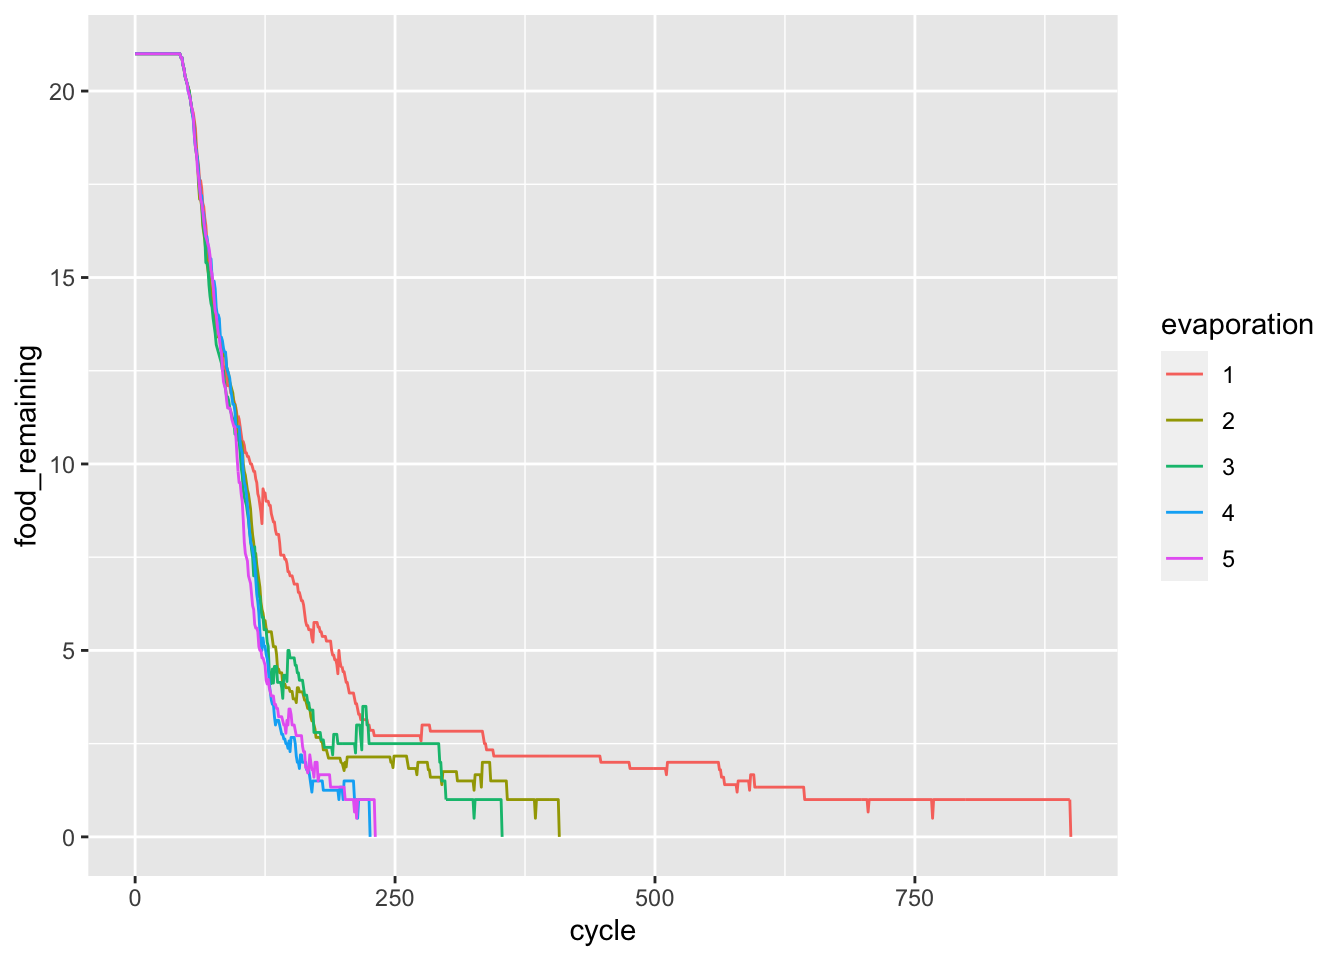
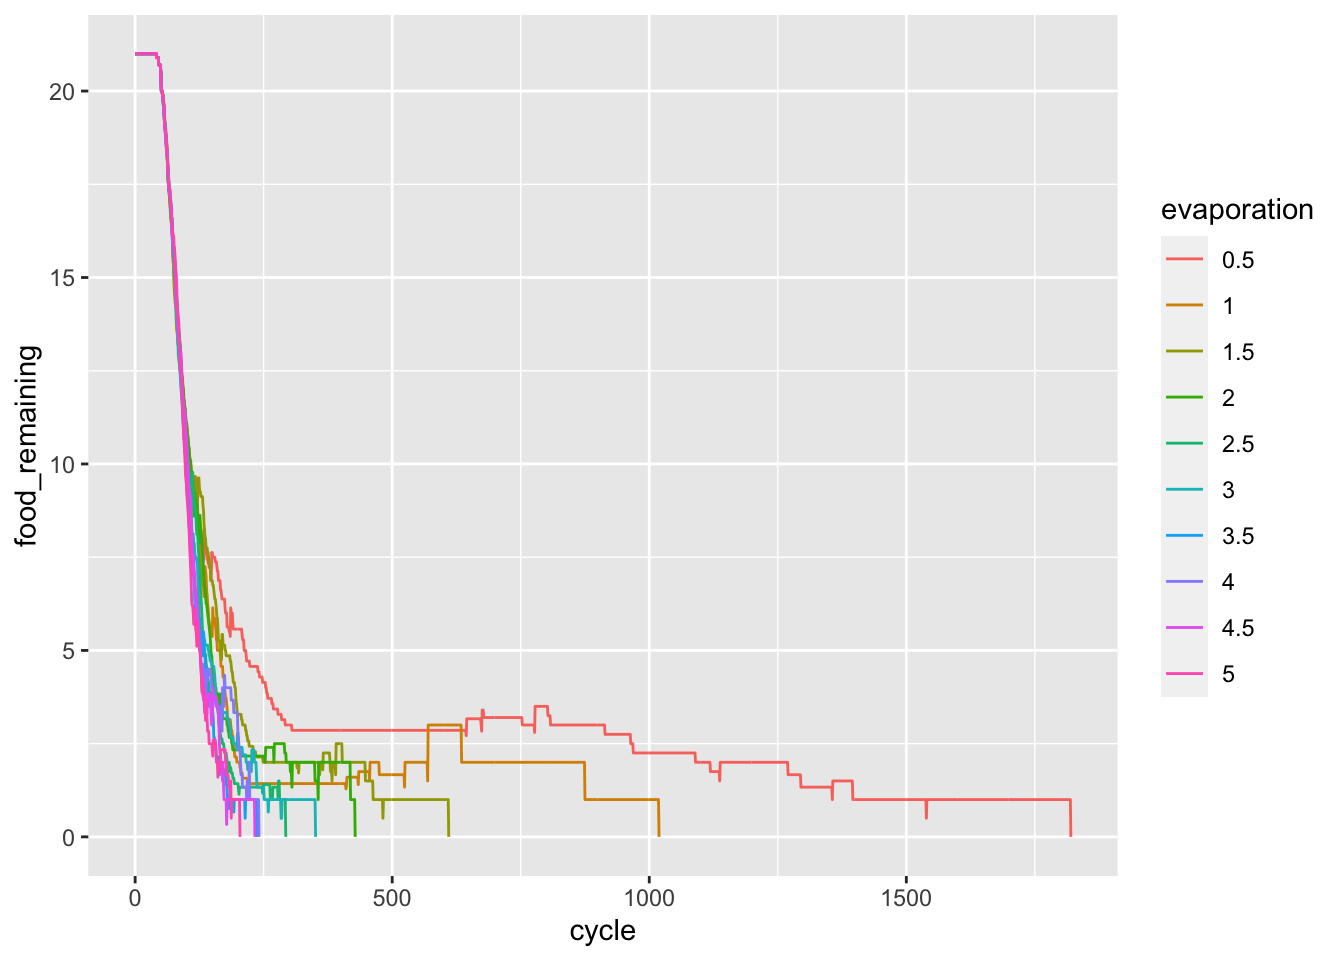
update sensitivity document

diff --git a/Assignment4/Sensitivity.html b/Assignment4/Sensitivity.html
@@ -152,15 +152,17 @@ code span.wa { color: #60a0b0; font-weight: bold; font-style: italic; } /* Warni
 <span id="cb4-3"><a href="#cb4-3" aria-hidden="true" tabindex="-1"></a>  <span class="fu">group_by</span>(iteration, evaporation) <span class="sc">%&gt;%</span> </span>
 <span id="cb4-4"><a href="#cb4-4" aria-hidden="true" tabindex="-1"></a>  <span class="fu">summarise_all</span>(<span class="fu">list</span>(max)) <span class="sc">%&gt;%</span> </span>
 <span id="cb4-5"><a href="#cb4-5" aria-hidden="true" tabindex="-1"></a>  ungroup <span class="sc">%&gt;%</span> </span>
-<span id="cb4-6"><a href="#cb4-6" aria-hidden="true" tabindex="-1"></a>  <span class="fu">mutate</span>(<span class="at">iteration =</span> <span class="fu">rep</span>(<span class="dv">1</span><span class="sc">:</span><span class="dv">10</span>, <span class="dv">5</span>),</span>
+<span id="cb4-6"><a href="#cb4-6" aria-hidden="true" tabindex="-1"></a>  <span class="fu">mutate</span>(<span class="at">iteration =</span> <span class="fu">rep</span>(<span class="dv">1</span><span class="sc">:</span><span class="dv">10</span>, <span class="dv">10</span>),</span>
 <span id="cb4-7"><a href="#cb4-7" aria-hidden="true" tabindex="-1"></a>         <span class="at">evaporation =</span> <span class="fu">as.factor</span>(evaporation)) <span class="ot">-&gt;</span> sim_end</span>
 <span id="cb4-8"><a href="#cb4-8" aria-hidden="true" tabindex="-1"></a></span>
 <span id="cb4-9"><a href="#cb4-9" aria-hidden="true" tabindex="-1"></a>sim_end <span class="sc">%&gt;%</span> </span>
 <span id="cb4-10"><a href="#cb4-10" aria-hidden="true" tabindex="-1"></a>  <span class="fu">ggplot</span>(<span class="fu">aes</span>(<span class="at">x =</span> evaporation, <span class="at">y =</span> cycle, <span class="at">fill =</span> evaporation)) <span class="sc">+</span></span>
 <span id="cb4-11"><a href="#cb4-11" aria-hidden="true" tabindex="-1"></a>  <span class="fu">geom_bar</span>(<span class="at">stat =</span> <span class="st">"identity"</span>) <span class="sc">+</span></span>
-<span id="cb4-12"><a href="#cb4-12" aria-hidden="true" tabindex="-1"></a>  <span class="fu">facet_wrap</span>(<span class="sc">~</span>iteration) <span class="sc">+</span></span>
-<span id="cb4-13"><a href="#cb4-13" aria-hidden="true" tabindex="-1"></a>  <span class="fu">labs</span>(<span class="at">title =</span> <span class="st">"Ants Model: Time to reach food depletion"</span>, <span class="at">subtitle =</span> <span class="st">"by evaporation parameters and iterations"</span>) <span class="sc">+</span></span>
-<span id="cb4-14"><a href="#cb4-14" aria-hidden="true" tabindex="-1"></a>  <span class="fu">theme</span>(<span class="at">legend.position =</span> <span class="st">"none"</span>)</span></code><button title="Copy to Clipboard" class="code-copy-button"><i class="bi"></i></button></pre></div>
+<span id="cb4-12"><a href="#cb4-12" aria-hidden="true" tabindex="-1"></a>  <span class="fu">facet_wrap</span>(<span class="sc">~</span>iteration, <span class="at">scales =</span> <span class="st">"free_y"</span>) <span class="sc">+</span></span>
+<span id="cb4-13"><a href="#cb4-13" aria-hidden="true" tabindex="-1"></a>  <span class="fu">labs</span>(<span class="at">title =</span> <span class="st">"Ants Model: Time to reach food depletion"</span>, </span>
+<span id="cb4-14"><a href="#cb4-14" aria-hidden="true" tabindex="-1"></a>       <span class="at">subtitle =</span> <span class="st">"by evaporation parameters and iterations"</span>) <span class="sc">+</span></span>
+<span id="cb4-15"><a href="#cb4-15" aria-hidden="true" tabindex="-1"></a>  <span class="fu">theme</span>(<span class="at">legend.position =</span> <span class="st">"none"</span>,</span>
+<span id="cb4-16"><a href="#cb4-16" aria-hidden="true" tabindex="-1"></a>        <span class="at">axis.text.x =</span> <span class="fu">element_text</span>(<span class="at">angle =</span> <span class="dv">90</span>, <span class="at">vjust =</span> <span class="fl">0.5</span>, <span class="at">hjust=</span><span class="dv">1</span>))</span></code><button title="Copy to Clipboard" class="code-copy-button"><i class="bi"></i></button></pre></div>
 <div class="cell-output-display">
 <p><img src="Sensitivity_files/figure-html/unnamed-chunk-6-1.png" class="img-fluid" width="672"></p>
 </div>
